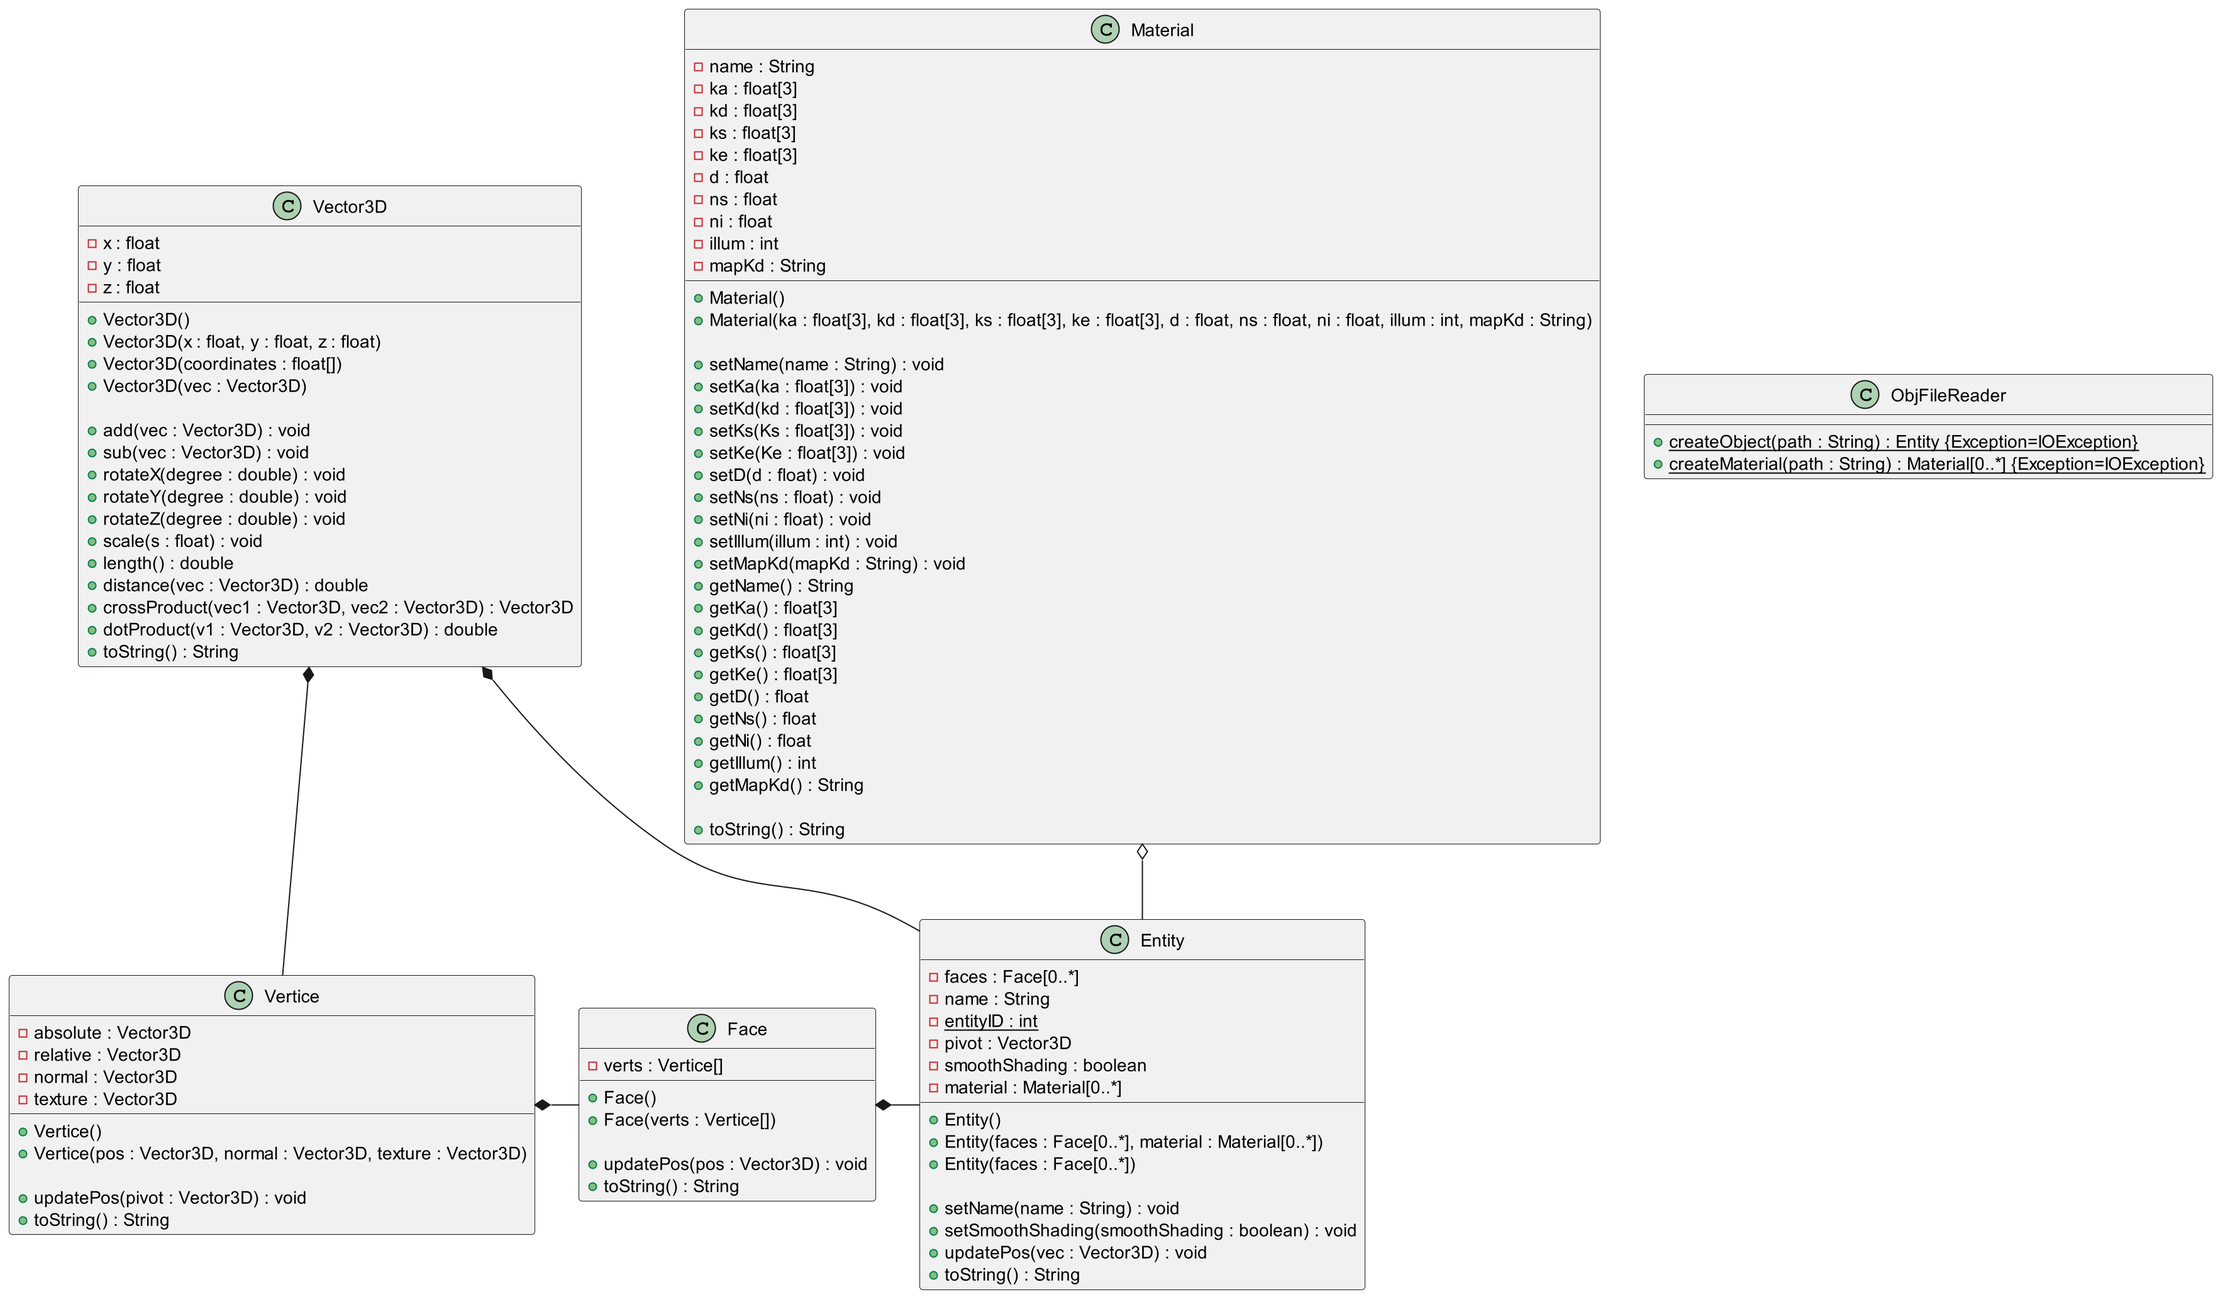
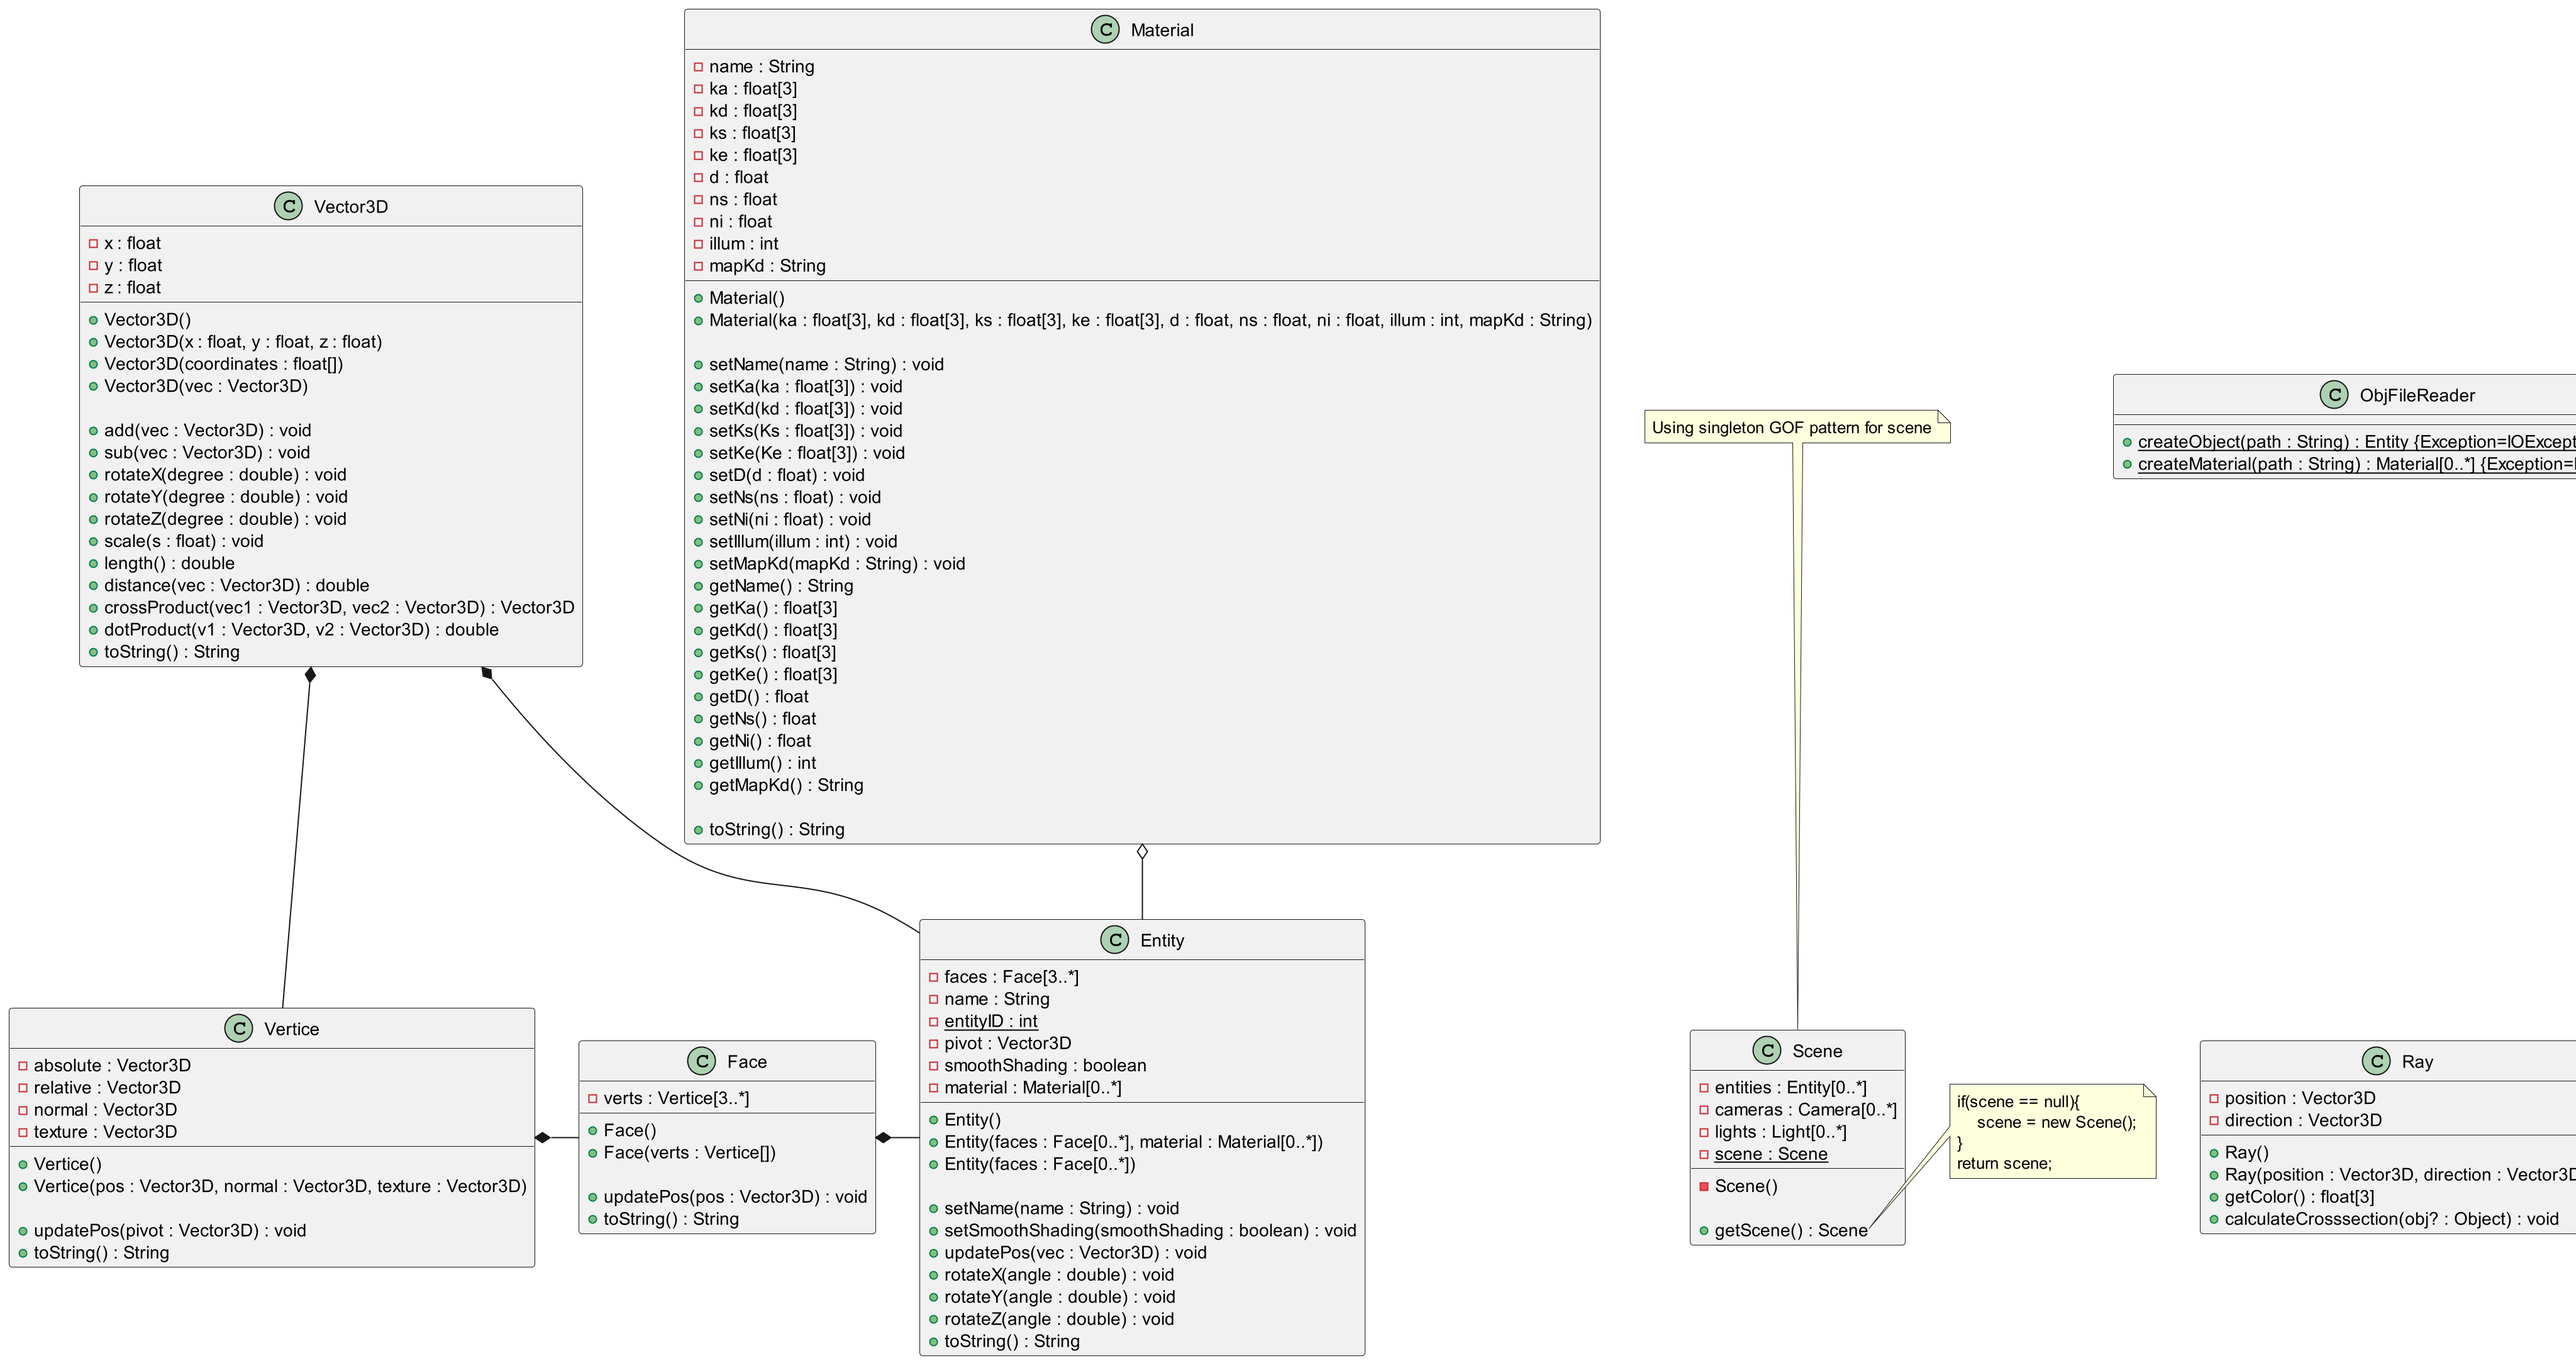
updated uml class diagram

diff --git a/src/core/objmeta/Entity.java b/src/core/objmeta/Entity.java
@@ -36,7 +36,7 @@ public class Entity {
         this.smoothShading = smoothShading;
     }
 
-    public void updatePosition(Vector3D vec){
+    public void updatePos(Vector3D vec){
         pivot.add(vec);
         for(Face face: faces)
             face.updatePos(pivot);
